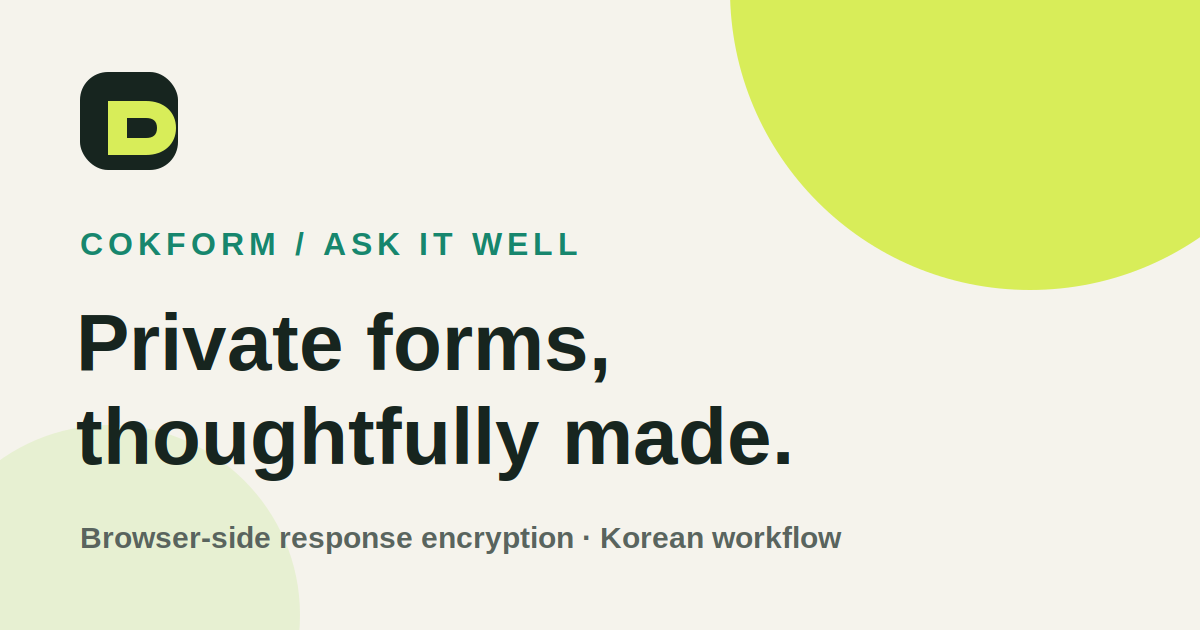
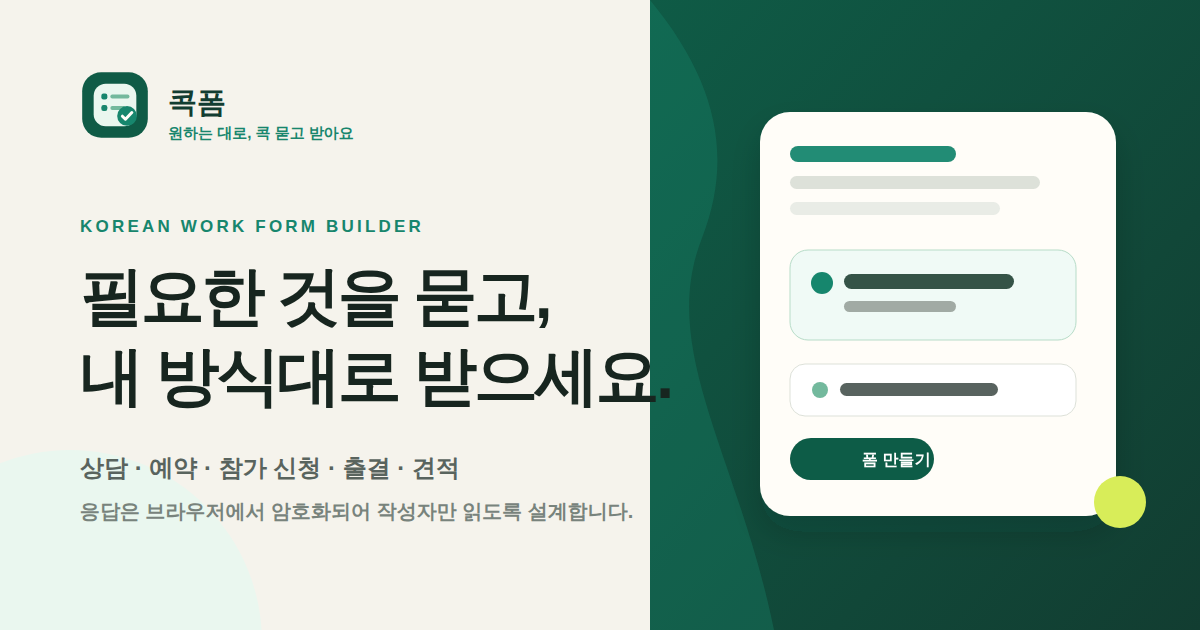
feat: refresh OG image and brand download picker

diff --git a/src/pages/ResourcesPage.jsx b/src/pages/ResourcesPage.jsx
@@ -157,8 +157,7 @@ export default function ResourcesPage({ onBack }) {
           <h2 className="text-xl font-bold tracking-[-0.04em]">공식 자산</h2>
         </div>
         <p className="mb-4 text-sm leading-6 text-[#59645E]">
-          파일 형식과 해상도를 고른 뒤 내려받으세요. SVG·PDF는 크기를 키워도 깨지지 않는 벡터 원본이며, PNG는 투명
-          배경, JPG는 밝은 배경으로 제공됩니다.
+          <strong className="font-semibold text-[#123D31]">1. 파일 형식</strong>과 <strong className="font-semibold text-[#123D31]">2. 화질·해상도</strong>를 순서대로 고른 뒤 내려받으세요. SVG·PDF는 크기를 키워도 깨지지 않는 벡터 원본이며, PNG는 투명 배경, JPG는 밝은 배경으로 제공됩니다.
         </p>
 
         <div className="grid gap-4 md:grid-cols-2">
@@ -182,50 +181,68 @@ export default function ResourcesPage({ onBack }) {
                   <h3 className="font-semibold">{asset.title}</h3>
                   <p className="mt-1 text-sm leading-6 text-[#59645E]">{asset.description}</p>
 
-                  <div className="mt-4 grid gap-2 sm:grid-cols-2">
-                    <label className="block text-xs font-semibold text-[#345247]">
-                      파일 형식
-                      <select
-                        value={format}
-                        onChange={(event) => setFormat(asset, event.target.value)}
-                        className="mt-1.5 w-full rounded-xl border border-[#C9D8CF] bg-white px-3 py-2.5 text-sm font-medium text-[#123D31] outline-none transition focus:border-[#17866D] focus:ring-2 focus:ring-[#17866D]/20"
-                      >
-                        {Object.entries(formatMeta).map(([value, meta]) => (
-                          <option key={value} value={value}>
-                            {meta.label} · {meta.description}
-                          </option>
-                        ))}
-                      </select>
-                    </label>
-                    <label className="block text-xs font-semibold text-[#345247]">
-                      해상도·품질
-                      <select
-                        value={quality}
-                        onChange={(event) => setQuality(asset.id, event.target.value)}
-                        className="mt-1.5 w-full rounded-xl border border-[#C9D8CF] bg-white px-3 py-2.5 text-sm font-medium text-[#123D31] outline-none transition focus:border-[#17866D] focus:ring-2 focus:ring-[#17866D]/20"
-                      >
-                        {qualityOptions.map((option) => (
-                          <option key={option.value} value={option.value}>
-                            {option.label}
-                          </option>
-                        ))}
-                      </select>
-                    </label>
+                  <div className="mt-5 rounded-2xl border border-[#DDE1D9] bg-[#F7F8F3] p-3">
+                    <p className="text-[11px] font-bold uppercase tracking-[0.12em] text-[#345247]">1. 파일 형식</p>
+                    <div className="mt-2 grid grid-cols-2 gap-2">
+                      {Object.entries(formatMeta).map(([value, meta]) => {
+                        const MetaIcon = meta.icon;
+                        const selected = format === value;
+                        return (
+                          <button
+                            key={value}
+                            type="button"
+                            aria-pressed={selected}
+                            onClick={() => setFormat(asset, value)}
+                            className={`flex min-h-14 items-center gap-2 rounded-xl border px-3 text-left transition focus-visible:outline-none focus-visible:ring-2 focus-visible:ring-[#17866D]/40 ${
+                              selected
+                                ? "border-[#17866D] bg-[#EAF7EF] text-[#0B4D3D] shadow-[0_2px_7px_rgba(23,37,31,0.08)]"
+                                : "border-[#DDE1D9] bg-white text-[#59645E] hover:border-[#B7DCC8] hover:bg-[#F0FAF6]"
+                            }`}
+                          >
+                            <MetaIcon size={17} className={selected ? "text-[#17866D]" : "text-[#78837C]"} />
+                            <span className="min-w-0"><span className="block text-xs font-bold">{meta.label}</span><span className="mt-0.5 block text-[10px] leading-4">{meta.description}</span></span>
+                          </button>
+                        );
+                      })}
+                    </div>
                   </div>
 
-                  <div className="mt-3 flex items-center gap-2 text-xs leading-5 text-[#59645E]">
-                    <FormatIcon size={14} className="shrink-0 text-[#17866D]" />
-                    <span>
-                      선택됨: {formatMeta[format].label} · {selectedQuality?.label}
-                    </span>
+                  <div className="mt-3 rounded-2xl border border-[#DDE1D9] bg-[#F7F8F3] p-3">
+                    <p className="text-[11px] font-bold uppercase tracking-[0.12em] text-[#345247]">2. 화질·해상도</p>
+                    <div className="mt-2 grid gap-2">
+                      {qualityOptions.map((option) => {
+                        const selected = quality === option.value;
+                        return (
+                          <button
+                            key={option.value}
+                            type="button"
+                            aria-pressed={selected}
+                            onClick={() => setQuality(asset.id, option.value)}
+                            className={`flex min-h-11 items-center justify-between gap-3 rounded-xl border px-3 text-left text-xs font-semibold transition focus-visible:outline-none focus-visible:ring-2 focus-visible:ring-[#17866D]/40 ${
+                              selected
+                                ? "border-[#17866D] bg-[#0F5B46] text-white shadow-[0_2px_7px_rgba(23,37,31,0.12)]"
+                                : "border-[#DDE1D9] bg-white text-[#345247] hover:border-[#B7DCC8] hover:bg-[#F0FAF6]"
+                            }`}
+                          >
+                            <span>{option.label}</span>
+                            {selected && <Check size={15} strokeWidth={2.5} />}
+                          </button>
+                        );
+                      })}
+                    </div>
+                  </div>
+
+                  <div className="mt-3 flex items-center gap-2 rounded-xl bg-[#EAF7EF] px-3 py-2.5 text-xs leading-5 text-[#345247]">
+                    <FormatIcon size={15} className="shrink-0 text-[#17866D]" />
+                    <span><strong className="font-semibold text-[#0B4D3D]">선택됨</strong> · {formatMeta[format].label} · {selectedQuality?.label}</span>
                   </div>
 
                   <a
                     href={downloadPath}
                     download={downloadName}
-                    className="mt-4 inline-flex items-center gap-1.5 rounded-full bg-[#0F5B46] px-3.5 py-2 text-xs font-semibold text-white transition hover:bg-[#0B4D3D] active:scale-[0.97]"
+                    className="mt-3 inline-flex w-full items-center justify-center gap-2 rounded-xl bg-[#0F5B46] px-4 py-3 text-sm font-semibold text-white transition hover:bg-[#0B4D3D] active:scale-[0.97]"
                   >
-                    <Download size={14} /> 선택 파일 다운로드
+                    <Download size={16} /> {downloadName} 다운로드
                   </a>
                 </div>
               </article>

diff --git a/index.html b/index.html
@@ -12,23 +12,25 @@
     <link rel="canonical" href="https://cokform.pages.dev/" />
     <link rel="manifest" href="/manifest.webmanifest" />
     <meta name="theme-color" content="#0F5B46" />
-    <meta name="description" content="개인정보 수집 동의, 행사 신청, 피드백을 위한 한국형 프라이버시 우선 폼 빌더. 콕폼은 응답을 브라우저에서 암호화해 작성자만 읽도록 설계합니다." />
+    <meta name="description" content="상담·예약·신청·출결·견적을 위한 한국 실무형 폼 빌더. 콕폼은 질문을 자유롭게 구성하고, 응답은 브라우저에서 암호화해 작성자만 읽도록 설계합니다." />
     <meta name="robots" content="index,follow,max-image-preview:large" />
     <meta name="google-site-verification" content="2fynZidkkBwKypUgSeg4RFzK9qkRiRfE8BEkPhmU4H8" />
     <meta property="og:type" content="website" />
     <meta property="og:site_name" content="콕폼" />
     <meta property="og:locale" content="ko_KR" />
-    <meta property="og:title" content="콕폼 · 개인정보를 먼저 생각하는 폼" />
-    <meta property="og:description" content="개인정보 수집 동의부터 행사 신청까지. 응답은 브라우저에서 암호화하고 작성자만 읽도록 설계했습니다." />
+    <meta property="og:title" content="콕폼 · 원하는 대로, 콕 묻고 받아요" />
+    <meta property="og:description" content="상담·예약·신청·출결·견적을 위한 한국 실무형 폼 빌더. 응답은 브라우저에서 암호화해 작성자만 읽도록 설계합니다." />
     <meta property="og:url" content="https://cokform.pages.dev/" />
     <meta property="og:image" content="https://cokform.pages.dev/og-image.png" />
     <meta property="og:image:type" content="image/png" />
     <meta property="og:image:width" content="1200" />
     <meta property="og:image:height" content="630" />
+    <meta property="og:image:alt" content="콕폼 — 필요한 것을 묻고, 내 방식대로 받으세요. 한국 실무형 폼 빌더" />
     <meta name="twitter:card" content="summary_large_image" />
-    <meta name="twitter:title" content="콕폼 · 개인정보를 먼저 생각하는 폼" />
-    <meta name="twitter:description" content="개인정보 수집 동의부터 행사 신청까지. 응답은 브라우저에서 암호화하고 작성자만 읽도록 설계했습니다." />
+    <meta name="twitter:title" content="콕폼 · 원하는 대로, 콕 묻고 받아요" />
+    <meta name="twitter:description" content="상담·예약·신청·출결·견적을 위한 한국 실무형 폼 빌더. 응답은 브라우저에서 암호화해 작성자만 읽도록 설계합니다." />
     <meta name="twitter:image" content="https://cokform.pages.dev/og-image.png" />
+    <meta name="twitter:image:alt" content="콕폼 — 필요한 것을 묻고, 내 방식대로 받으세요. 한국 실무형 폼 빌더" />
     <script type="application/ld+json">
       {
         "@context": "https://schema.org",
@@ -38,9 +40,9 @@
         "applicationCategory": "BusinessApplication",
         "operatingSystem": "Web",
         "inLanguage": "ko-KR",
-        "description": "브라우저 기반 응답 암호화와 한국형 개인정보 안내를 지원하는 privacy-first 폼 빌더",
+        "description": "상담·예약·신청·출결·견적을 위한 한국 실무형 폼 빌더. 응답은 브라우저에서 암호화해 작성자만 읽도록 설계합니다.",
         "url": "https://cokform.pages.dev/",
-        "featureList": "브라우저 기반 응답 암호화, 개인정보 수집 동의, 행사 신청 폼, CSV 및 Excel 호환 내보내기",
+        "featureList": "상담·예약·신청·출결·견적 템플릿, 브라우저 기반 응답 암호화, 개인정보 수집 동의, CSV·Excel·JSON·PPTX 내보내기",
         "offers": { "@type": "Offer", "price": "0", "priceCurrency": "KRW" }
       }
     </script>

diff --git a/scripts/render_og.py b/scripts/render_og.py
@@ -1,8 +1,26 @@
 from pathlib import Path
-import cairosvg
+import shutil
+import subprocess
 
 project = Path(__file__).resolve().parents[1]
 source = project / "public" / "og-image.svg"
 target = project / "public" / "og-image.png"
-cairosvg.svg2png(url=str(source), write_to=str(target), output_width=1200, output_height=630)
+chromium = shutil.which("chromium")
+
+if not chromium:
+    raise RuntimeError("Chromium is required to render the Korean OG image.")
+
+subprocess.run(
+    [
+        chromium,
+        "--headless",
+        "--no-sandbox",
+        "--disable-gpu",
+        "--hide-scrollbars",
+        "--window-size=1200,630",
+        f"--screenshot={target}",
+        source.as_uri(),
+    ],
+    check=True,
+)
 print(target)
